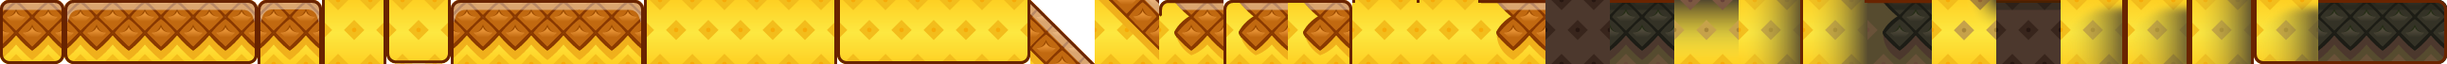
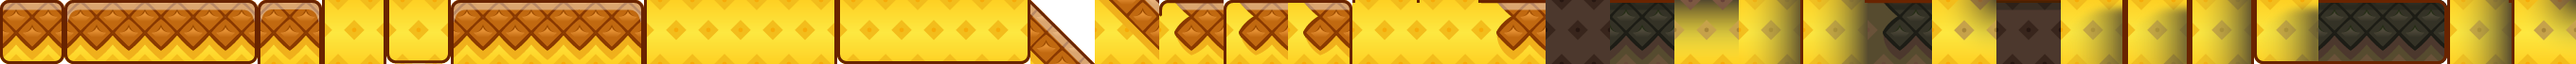
Grotte: 49 aggiornato, 63 e 55 sotto i muri sottili

diff --git a/game.js b/game.js
@@ -46,7 +46,7 @@ const PIX={block:0,horizontal_left:1,horizontal_middle:2,horizontal_right:3,vert
 const ERBANAN=new Image();ERBANAN.src='assets/erbananas.webp'; /* il ciuffo d'ananas dell'utente al posto del cespuglio nel mondo 1 */
 /* in grandezza vera, alla scala delle caselle da 68 del paesaggio: così il bordo scuro è spesso come quello del pavimento */
 function ciuffo(c,x,y,ts){const w=ERBANAN.width*ts/68,h=ERBANAN.height*ts/68;if(w)c.drawImage(ERBANAN,x-w/2,y-h,w,h);}
-const PAES=new Image();PAES.src='assets/paesaggio.webp';const PAES_RAMPA=16,PAES_SOTTO=17,PAES_BORDO={m:18,g:19,v:20},PAES_UNIONE=21,PAES_COLONNA=22,PAES_LATO_COLONNA=23,PAES_GROTTA={fondo:24,pav:25,base:26,muro:27,muroPav:28,pavMuro:29,muroBase:30,cielo:31,angolo:32,angoloS:33,muroS:34,muroFondo:35,pavFondo:36,pavFine:37}; /* 17: la terra sotto una rampa a scalini, con la buccia della rampa dopo nell'angolo; 18-20: dove il piano finisce a sinistra, ai piedi di un muro più alto (m), con un gradino in giù (g) o sul vuoto (v); a destra si capovolgono, il bordo sul vuoto al contrario; 21: il muro accanto al bordo sul vuoto, dove le due linee si uniscono; 22: sotto una colonna, con il piano che arriva dai due lati; 23: il piano ai lati di quella colonna, senza l'uncino; 24-29: la grotta, sfondo, pavimento, la casella sotto il pavimento che torna gialla, il muro a sinistra (a destra si capovolge), e l'angolo: il muro alla quota del pavimento, la prima casella di pavimento accanto al muro e (30) il muro sotto, dove la sfumatura gira; 31: l'interno sotto il soffitto */
+const PAES=new Image();PAES.src='assets/paesaggio.webp';const PAES_RAMPA=16,PAES_SOTTO=17,PAES_BORDO={m:18,g:19,v:20},PAES_UNIONE=21,PAES_COLONNA=22,PAES_LATO_COLONNA=23,PAES_GROTTA={fondo:24,pav:25,base:26,muro:27,muroPav:28,pavMuro:29,muroBase:30,cielo:31,angolo:32,angoloS:33,muroS:34,muroFondo:35,pavFondo:36,pavFine:37,muroPavS:38,muroBaseS:39}; /* 17: la terra sotto una rampa a scalini, con la buccia della rampa dopo nell'angolo; 18-20: dove il piano finisce a sinistra, ai piedi di un muro più alto (m), con un gradino in giù (g) o sul vuoto (v); a destra si capovolgono, il bordo sul vuoto al contrario; 21: il muro accanto al bordo sul vuoto, dove le due linee si uniscono; 22: sotto una colonna, con il piano che arriva dai due lati; 23: il piano ai lati di quella colonna, senza l'uncino; 24-29: la grotta, sfondo, pavimento, la casella sotto il pavimento che torna gialla, il muro a sinistra (a destra si capovolge), e l'angolo: il muro alla quota del pavimento, la prima casella di pavimento accanto al muro e (30) il muro sotto, dove la sfumatura gira; 31: l'interno sotto il soffitto */
 function paes(c,i,x,y,w,h,flip,capo){const s=c.imageSmoothingEnabled;c.imageSmoothingEnabled=false;if(flip||capo){c.save();c.translate(flip?x+w:x,capo?y+h:y);c.scale(flip?-1:1,capo?-1:1);c.drawImage(PAES,i*68,0,68,68,0,0,w,h);c.restore();}else c.drawImage(PAES,i*68,0,68,68,x,y,w,h);c.imageSmoothingEnabled=s;}
 function sp(c,n,x,y,w,h,flip){if(n.startsWith('terrain_sand_')&&PAES.complete){const t=n.slice(13);if(t==='ramp_short_b'){paes(c,PAES_RAMPA,x,y,w,h,flip);return;}if(t in PIX){paes(c,PIX[t],x,y,w,h);return;}}
  const q=KMAP[n],im=q&&q[2]?KIT2:KIT;if(!q||!im.complete)return;if(flip){c.save();c.translate(x+w,y);c.scale(-1,1);c.drawImage(im,q[0],q[1],96,96,0,0,w,h);c.restore();}else c.drawImage(im,q[0],q[1],96,96,x,y,w,h);}
@@ -580,7 +580,7 @@ function disegna2d(){
  if(G.boom){const e=(G.t-G.boom.t)/.55;if(e<1)disegnaEspl(c,sx(G.boom.x),sy(G.boom.y),G.boom.r*ts,e);else G.boom=null;}
  for(const f of M.finti||[]){if(f[2]<c0||f[0]>c1)continue;const dentro=p.x>f[0]-.7&&p.x<f[2]+.7&&p.y>f[1]-.7&&p.y<f[3]+.7;f.a=lerp(f.a===undefined?1:f.a,dentro?.05:1,.15);
   const g=clamp((1-f.a)/.7,0,1);if(g>.01){c.globalAlpha=g;/* pavimento con sotto la casella che torna gialla; il soffitto resta giallo; i muri ai lati solo se la grotta ha il pavimento: nei tunnel aperti sotto si vede solo l'interno */
-   const gr=(x,y,i,capo,flip)=>{if(pieno(cel(x,y)))paes(c,i,sx(x)-ts/2,sy(y)-ts/2,mz,mz,flip,capo);};let pav=false;for(let x=f[0];x<=f[2];x++)pav=pav||pieno(cel(x,f[1]-1));if(pav)for(let y=f[1];y<=f[3];y++){const al=y===f[3]&&pieno(cel(f[0],y+1)),ar=y===f[3]&&pieno(cel(f[2],y+1)),sl=!pieno(cel(f[0]-2,y)),sr=!pieno(cel(f[2]+2,y));gr(f[0]-1,y,al?(sl?PAES_GROTTA.angoloS:PAES_GROTTA.angolo):sl?PAES_GROTTA.muroS:PAES_GROTTA.muro);gr(f[2]+1,y,ar?(sr?PAES_GROTTA.angoloS:PAES_GROTTA.angolo):sr?PAES_GROTTA.muroS:PAES_GROTTA.muro,false,true);}const ms=pav&&pieno(cel(f[0]-1,f[1])),md=pav&&pieno(cel(f[2]+1,f[1]));if(ms){gr(f[0]-1,f[1]-1,pieno(cel(f[0]-1,f[1]-2))?PAES_GROTTA.muroPav:PAES_GROTTA.muroFondo);gr(f[0]-1,f[1]-2,PAES_GROTTA.muroBase);}if(md){gr(f[2]+1,f[1]-1,pieno(cel(f[2]+1,f[1]-2))?PAES_GROTTA.muroPav:PAES_GROTTA.muroFondo,false,true);gr(f[2]+1,f[1]-2,PAES_GROTTA.muroBase,false,true);}
+   const gr=(x,y,i,capo,flip)=>{if(pieno(cel(x,y)))paes(c,i,sx(x)-ts/2,sy(y)-ts/2,mz,mz,flip,capo);};let pav=false;for(let x=f[0];x<=f[2];x++)pav=pav||pieno(cel(x,f[1]-1));if(pav)for(let y=f[1];y<=f[3];y++){const al=y===f[3]&&pieno(cel(f[0],y+1)),ar=y===f[3]&&pieno(cel(f[2],y+1)),sl=!pieno(cel(f[0]-2,y)),sr=!pieno(cel(f[2]+2,y));gr(f[0]-1,y,al?(sl?PAES_GROTTA.angoloS:PAES_GROTTA.angolo):sl?PAES_GROTTA.muroS:PAES_GROTTA.muro);gr(f[2]+1,y,ar?(sr?PAES_GROTTA.angoloS:PAES_GROTTA.angolo):sr?PAES_GROTTA.muroS:PAES_GROTTA.muro,false,true);}const ms=pav&&pieno(cel(f[0]-1,f[1])),md=pav&&pieno(cel(f[2]+1,f[1]));if(ms){gr(f[0]-1,f[1]-1,!pieno(cel(f[0]-1,f[1]-2))?PAES_GROTTA.muroFondo:pieno(cel(f[0]-2,f[1]-1))?PAES_GROTTA.muroPav:PAES_GROTTA.muroPavS);gr(f[0]-1,f[1]-2,pieno(cel(f[0]-2,f[1]-2))?PAES_GROTTA.muroBase:PAES_GROTTA.muroBaseS);}if(md){gr(f[2]+1,f[1]-1,!pieno(cel(f[2]+1,f[1]-2))?PAES_GROTTA.muroFondo:pieno(cel(f[2]+2,f[1]-1))?PAES_GROTTA.muroPav:PAES_GROTTA.muroPavS,false,true);gr(f[2]+1,f[1]-2,pieno(cel(f[2]+2,f[1]-2))?PAES_GROTTA.muroBase:PAES_GROTTA.muroBaseS,false,true);}
    for(let x=f[0];x<=f[2];x++){if(pieno(cel(x,f[1]-1))){const ang=x===f[0]&&ms?1:x===f[2]&&md?-1:0;const vu=!pieno(cel(x,f[1]-2)),fi=!vu||ang?0:!pieno(cel(x+1,f[1]-1))?1:!pieno(cel(x-1,f[1]-1))?-1:0;gr(x,f[1]-1,ang?PAES_GROTTA.pavMuro:fi?PAES_GROTTA.pavFine:vu?PAES_GROTTA.pavFondo:PAES_GROTTA.pav,false,ang<0||fi<0);gr(x,f[1]-2,PAES_GROTTA.base);}}}
   c.globalAlpha=f.a;
   for(let y=f[1];y<=f[3];y++)for(let x=f[0];x<=f[2];x++)if(!pieno(cel(x,y)))sp(c,nomeTile(x,y,k),sx(x)-ts/2,sy(y)-ts/2,mz,mz);c.globalAlpha=1;}

diff --git a/CLAUDE.md b/CLAUDE.md
@@ -36,7 +36,7 @@ Gioco per browser pensato per il telefono in orizzontale, pubblicato con GitHub 
   - `x` blocco che crolla: mezzo secondo dopo che ci sali cade, e torna dopo 4 secondi.
   - `y` botola: sembra terra, ma se ti fermi sopra crolla dopo 0,8 secondi. Per ora nel livello 1 non ce ne sono: l'utente non le voleva dove c'erano.
   - `X` muro crepato: si apre solo con l'esplosione.
-  - **Pareti finte** (rettangoli in `FINTI`): si disegnano come terra sopra quello che c'è dietro, si attraversano e sbiadiscono quando Matteo ci entra. Dietro c'è una grotta, con i pezzi dell'utente in `PAES_GROTTA`: sfondo `sprite-42.png`, pavimento `sprite-43.png` e sotto il pavimento `sprite-44.png`, che torna gialla. Il soffitto resta il giallo ananas normale: l'utente lo vuole così; la fila dell'interno subito sotto è `sprite-52.png`, con la linea scura in cima. I muri ai lati, nella colonna accanto alla grotta, sono `sprite-47.png` (a destra capovolto; il 45 è la versione vecchia e non si usa più), e la casella di muro nella fila più alta, sotto il soffitto, è `sprite-56.png` (`PAES_GROTTA.angolo`). Se il muro è largo una casella sola, con il vuoto fuori, ha il bordo anche dall'altra parte: `sprite-58.png`, e in cima `sprite-57.png`. Se sotto il pavimento della grotta c'è il vuoto, il pavimento è `sprite-60.png` (con il bordo sotto), dove finisce sul vuoto di lato `sprite-61.png` (arrotondato, a sinistra capovolto) e il muro alla quota del pavimento `sprite-59.png` invece del 46. Le linee delle grotte sono marroni come quelle del terreno, ma solo se la grotta ha un pavimento: nei tunnel aperti sotto si vede solo l'interno. Negli angoli tra muro e pavimento il muro alla quota del pavimento è `sprite-46.png` la prima casella di pavimento è `sprite-48.png` e sotto il 46 va `sprite-49.png`, dove la sfumatura gira (a destra capovolti).
+  - **Pareti finte** (rettangoli in `FINTI`): si disegnano come terra sopra quello che c'è dietro, si attraversano e sbiadiscono quando Matteo ci entra. Dietro c'è una grotta, con i pezzi dell'utente in `PAES_GROTTA`: sfondo `sprite-42.png`, pavimento `sprite-43.png` e sotto il pavimento `sprite-44.png`, che torna gialla. Il soffitto resta il giallo ananas normale: l'utente lo vuole così; la fila dell'interno subito sotto è `sprite-52.png`, con la linea scura in cima. I muri ai lati, nella colonna accanto alla grotta, sono `sprite-47.png` (a destra capovolto; il 45 è la versione vecchia e non si usa più), e la casella di muro nella fila più alta, sotto il soffitto, è `sprite-56.png` (`PAES_GROTTA.angolo`). Se il muro è largo una casella sola, con il vuoto fuori, ha il bordo anche dall'altra parte: `sprite-58.png`, e in cima `sprite-57.png`; alla quota del pavimento e sotto, al posto del 46 e del 49, `sprite-63.png` e `sprite-55.png`. Se sotto il pavimento della grotta c'è il vuoto, il pavimento è `sprite-60.png` (con il bordo sotto), dove finisce sul vuoto di lato `sprite-61.png` (arrotondato, a sinistra capovolto) e il muro alla quota del pavimento `sprite-59.png` invece del 46. Le linee delle grotte sono marroni come quelle del terreno, ma solo se la grotta ha un pavimento: nei tunnel aperti sotto si vede solo l'interno. Negli angoli tra muro e pavimento il muro alla quota del pavimento è `sprite-46.png` la prima casella di pavimento è `sprite-48.png` e sotto il 46 va `sprite-49.png`, dove la sfumatura gira (a destra capovolti).
 - Valide in tutto il gioco:
   - **Scatto:** quando colpisce il primo nemico elimina tutti quelli nel suo blocco (entro una casella più in là); se è partito slanciato (sopra velocità 8, `p.catena=2`) quelli entro due blocchi. Poi, se lo scatto era lento, Matteo si ferma e rimbalza indietro; se era slanciato va avanti senza fermarsi. `forte` si ricalcola per ogni nemico.
   - **Salto in testa:** cadendo sopra un nemico che cammina (`e`) o vola (`f`) lo uccide e rimbalza. Quelli con le spine (`r`) e i blocchi che sparano (`g`) fanno male anche dall'alto.
